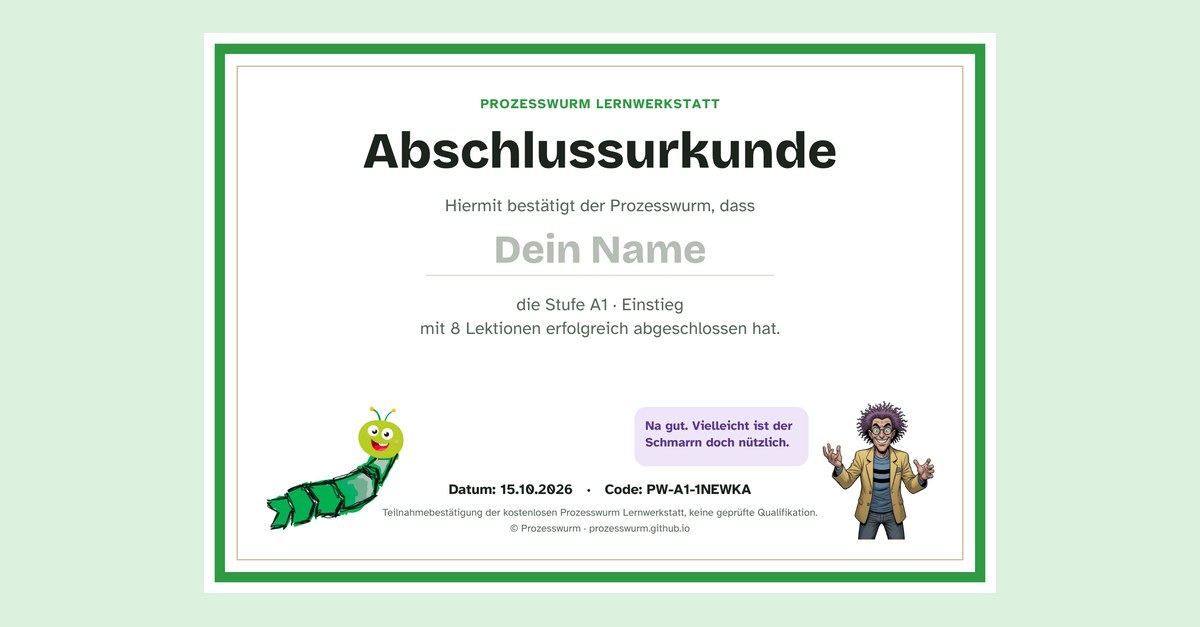
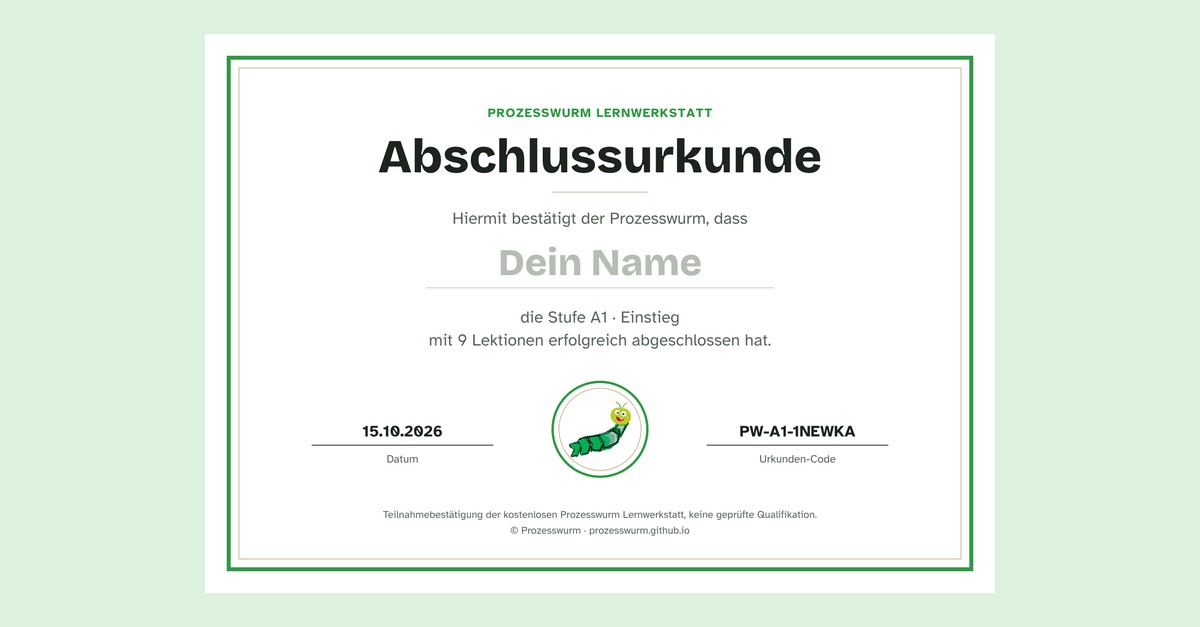
Urkunde seriöser: ohne Doktor Kuddelmuddel und Sprechblase, Prozesswurm als Siegel
Gleich angepasst: Download-Urkunde, Link-Seite urkunde.html,
Teilen-Vorschaubild und Website-Bilder in web/ (A1 jetzt mit 9 Lektionen).

Claude-Session: https://claude.ai/code/session_01CpN5Gb8iVqdwSCBZjJNDFp

Changed region(s): [[0.1542, 0.0606, 0.8325, 0.9394], [0.3392, 0.303, 0.6475, 0.5758], [0.2775, 0.1515, 0.7092, 0.2727]]

diff --git a/index.html b/index.html
@@ -1761,31 +1761,37 @@ function wrap(ctx,text,x,y,maxW,lh){ const words=text.split(' '); let line='', y
 async function drawCert(b,name,date){
   try{ await Promise.all([document.fonts.load('800 60px "Bricolage Grotesque"'),document.fonts.load('400 30px "Atkinson Hyperlegible"'),document.fonts.load('700 30px "Atkinson Hyperlegible"')]); }catch(e){}
   const W=2000,H=1414, c=document.createElement('canvas'); c.width=W; c.height=H; const x=c.getContext('2d');
-  const gold=b.key===`GESAMT`, accent=gold?'#B8901A':'#2E9A43', ink='#1C241D', muted='#5A675C';
+  const gold=b.key===`GESAMT`, accent=gold?'#B8901A':'#2E9A43', ink='#1C241D', muted='#5A675C', rule='#C9B48F';
   x.fillStyle='#FFFFFF'; x.fillRect(0,0,W,H);
-  x.strokeStyle=accent; x.lineWidth=26; x.strokeRect(40,40,W-80,H-80);
-  x.strokeStyle='#C9B48F'; x.lineWidth=3; x.strokeRect(84,84,W-168,H-168);
-  x.textAlign='center'; x.fillStyle=accent; x.font='700 34px "Atkinson Hyperlegible", sans-serif';
-  x.fillText('PROZESSWURM LERNWERKSTATT'.split('').join(String.fromCharCode(8202)), W/2, 190);
-  x.fillStyle=ink; x.font='800 128px "Bricolage Grotesque", sans-serif'; x.fillText(gold?'Große Abschlussurkunde':'Abschlussurkunde', W/2, 340);
-  x.fillStyle=muted; x.font='400 44px "Atkinson Hyperlegible", sans-serif'; x.fillText('Hiermit bestätigt der Prozesswurm, dass', W/2, 450);
-  x.fillStyle=name?ink:'#B5BDB4'; let fsz=100; do{ x.font=`800 ${fsz}px "Bricolage Grotesque", sans-serif`; fsz-=4; } while(x.measureText(name||'Dein Name').width>1560 && fsz>40); x.fillText(name||'Dein Name', W/2, 580);
-  x.strokeStyle='#D3DBCE'; x.lineWidth=3; x.beginPath(); x.moveTo(560,612); x.lineTo(W-560,612); x.stroke();
-  x.fillStyle=muted; x.font='400 44px "Atkinson Hyperlegible", sans-serif';
-  const what = gold ? 'alle Stufen der Prozesswurm Lernwerkstatt von A1 bis C2' : `die Stufe ${b.title}`;
-  x.fillText(gold ? what : what, W/2, 700);
-  x.fillText(gold ? 'erfolgreich durchgegraben hat.' : `mit ${b.ids.length} Lektionen erfolgreich abgeschlossen hat.`, W/2, 760);
-  const wurm=await loadImg('wurm-full.png'), kud=await loadImg('kuddel-full.png');
-  if(wurm){ const h=330, w=wurm.width*h/wurm.height; x.drawImage(wurm,150,H-150-h,w,h); }
-  if(kud){ const h=360, w=kud.width*h/kud.height; x.drawImage(kud,W-150-w,H-130-h,w,h);
-    x.fillStyle='#EEE6F8'; const bx=W-150-w-470, by=H-470; x.beginPath(); x.roundRect(bx,by,440,150,30); x.fill();
-    x.fillStyle='#5B3790'; x.font='700 32px "Atkinson Hyperlegible", sans-serif'; x.textAlign='left';
-    wrap(x, gold?'Gut, ich geb’s zu: Der Schmarrn war nützlich.':'Na gut. Vielleicht ist der Schmarrn doch nützlich.', bx+28, by+58, 390, 42); x.textAlign='center'; }
-  x.fillStyle=ink; x.font='700 36px "Atkinson Hyperlegible", sans-serif';
-  x.fillText(`Datum: ${fmtDate(date)}   ·   Code: ${certCode(b,name,date)}`, W/2, H-250);
+  x.strokeStyle=accent; x.lineWidth=10; x.strokeRect(60,60,W-120,H-120);
+  x.strokeStyle=rule; x.lineWidth=2; x.strokeRect(86,86,W-172,H-172);
+  x.textAlign='center'; x.fillStyle=accent; x.font='700 32px "Atkinson Hyperlegible", sans-serif';
+  x.fillText('PROZESSWURM LERNWERKSTATT'.split('').join(String.fromCharCode(8202)), W/2, 210);
+  x.fillStyle=ink; x.font='800 120px "Bricolage Grotesque", sans-serif'; x.fillText(gold?'Große Abschlussurkunde':'Abschlussurkunde', W/2, 350);
+  x.strokeStyle=rule; x.lineWidth=2; x.beginPath(); x.moveTo(W/2-120,400); x.lineTo(W/2+120,400); x.stroke();
+  x.fillStyle=muted; x.font='400 42px "Atkinson Hyperlegible", sans-serif'; x.fillText('Hiermit bestätigt der Prozesswurm, dass', W/2, 480);
+  x.fillStyle=name?ink:'#B5BDB4'; let fsz=96; do{ x.font=`800 ${fsz}px "Bricolage Grotesque", sans-serif`; fsz-=4; } while(x.measureText(name||'Dein Name').width>1500 && fsz>40); x.fillText(name||'Dein Name', W/2, 610);
+  x.strokeStyle='#D3DBCE'; x.lineWidth=3; x.beginPath(); x.moveTo(560,642); x.lineTo(W-560,642); x.stroke();
+  x.fillStyle=muted; x.font='400 42px "Atkinson Hyperlegible", sans-serif';
+  x.fillText(gold ? 'alle Stufen der Prozesswurm Lernwerkstatt von A1 bis C2' : `die Stufe ${b.title}`, W/2, 730);
+  x.fillText(gold ? 'erfolgreich abgeschlossen hat.' : `mit ${b.ids.length} Lektionen erfolgreich abgeschlossen hat.`, W/2, 788);
+  // Fusszeile: Datum links, Prozesswurm-Siegel mittig, Code rechts
+  const fy=1040, colL=500, colR=W-500;
+  x.strokeStyle=ink; x.lineWidth=2;
+  x.beginPath(); x.moveTo(colL-230,fy); x.lineTo(colL+230,fy); x.stroke();
+  x.beginPath(); x.moveTo(colR-230,fy); x.lineTo(colR+230,fy); x.stroke();
+  x.fillStyle=ink; x.font='700 40px "Atkinson Hyperlegible", sans-serif';
+  x.fillText(fmtDate(date), colL, fy-22); x.fillText(certCode(b,name,date), colR, fy-22);
+  x.fillStyle=muted; x.font='400 28px "Atkinson Hyperlegible", sans-serif';
+  x.fillText('Datum', colL, fy+44); x.fillText('Urkunden-Code', colR, fy+44);
+  const wurm=await loadImg('wurm-full.png');
+  const sx=W/2, sy=fy-40, r=120;
+  x.strokeStyle=accent; x.lineWidth=6; x.beginPath(); x.arc(sx,sy,r,0,Math.PI*2); x.stroke();
+  x.strokeStyle=rule; x.lineWidth=2; x.beginPath(); x.arc(sx,sy,r-16,0,Math.PI*2); x.stroke();
+  if(wurm){ const h=150, w=wurm.width*h/wurm.height; x.drawImage(wurm,sx-w/2,sy-h/2,w,h); }
   x.fillStyle=muted; x.font='400 26px "Atkinson Hyperlegible", sans-serif';
-  x.fillText('Teilnahmebestätigung der kostenlosen Prozesswurm Lernwerkstatt, keine geprüfte Qualifikation.', W/2, H-195);
-  x.fillText('© Prozesswurm · prozesswurm.github.io', W/2, H-155);
+  x.fillText('Teilnahmebestätigung der kostenlosen Prozesswurm Lernwerkstatt, keine geprüfte Qualifikation.', W/2, H-190);
+  x.fillText('© Prozesswurm · prozesswurm.github.io', W/2, H-150);
   return c.toDataURL('image/png');
 }
 let certTimer=null;
